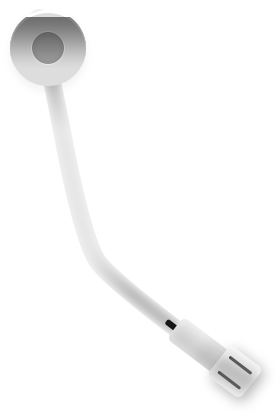
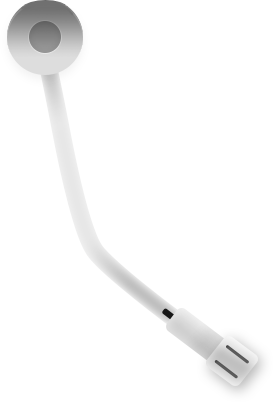
improve needle animation

diff --git a/lib/pages/page_playing.dart b/lib/pages/page_playing.dart
@@ -227,7 +227,6 @@ class _AlbumCover extends StatefulWidget {
 
 class _AlbumCoverState extends State<_AlbumCover>
     with TickerProviderStateMixin {
-
   //album cover rotation animation
   AnimationController controller;
 
@@ -248,7 +247,7 @@ class _AlbumCoverState extends State<_AlbumCover>
 
     needleController = AnimationController(
         vsync: this,
-        duration: Duration(milliseconds: 500),
+        duration: Duration(milliseconds: 700),
         animationBehavior: AnimationBehavior.normal);
     needleAnimation = Tween<double>(begin: -1 / 12, end: 0)
         .chain(CurveTween(curve: Curves.easeInOut))
@@ -304,6 +303,8 @@ class _AlbumCoverState extends State<_AlbumCover>
     needleController.dispose();
   }
 
+  static const double HEIGHT_SPACE_ALBUM_TOP = 100;
+
   @override
   Widget build(BuildContext context) {
     var music = PlayerState.of(context).value.current;
@@ -311,8 +312,8 @@ class _AlbumCoverState extends State<_AlbumCover>
     return Stack(
       children: <Widget>[
         Container(
-          padding: EdgeInsets.only(top: 100),
-          margin: EdgeInsets.symmetric(horizontal: 64),
+          padding: const EdgeInsets.only(top: HEIGHT_SPACE_ALBUM_TOP),
+          margin: const EdgeInsets.symmetric(horizontal: 64),
           child: Transform.rotate(
             angle: rotation,
             child: Material(
@@ -342,10 +343,14 @@ class _AlbumCoverState extends State<_AlbumCover>
               offset: Offset(40, -0),
               child: RotationTransition(
                 turns: needleAnimation,
-                alignment: const Alignment(-1, -1),
-                child: SizedBox(
-                    height: 160,
-                    child: Image.asset("assets/playing_page_needle.png")),
+                alignment:
+                    //44,37 是针尾的圆形的中心点像素坐标, 273,402是playing_page_needle.png的宽高
+                    //所以对此计算旋转中心点的偏移,以保重旋转动画的中心在针尾圆形的中点
+                    const Alignment(-1 + 44 * 2 / 273, -1 + 37 * 2 / 402),
+                child: Image.asset(
+                  "assets/playing_page_needle.png",
+                  height: HEIGHT_SPACE_ALBUM_TOP * 1.6,
+                ),
               ),
             ),
           ),
